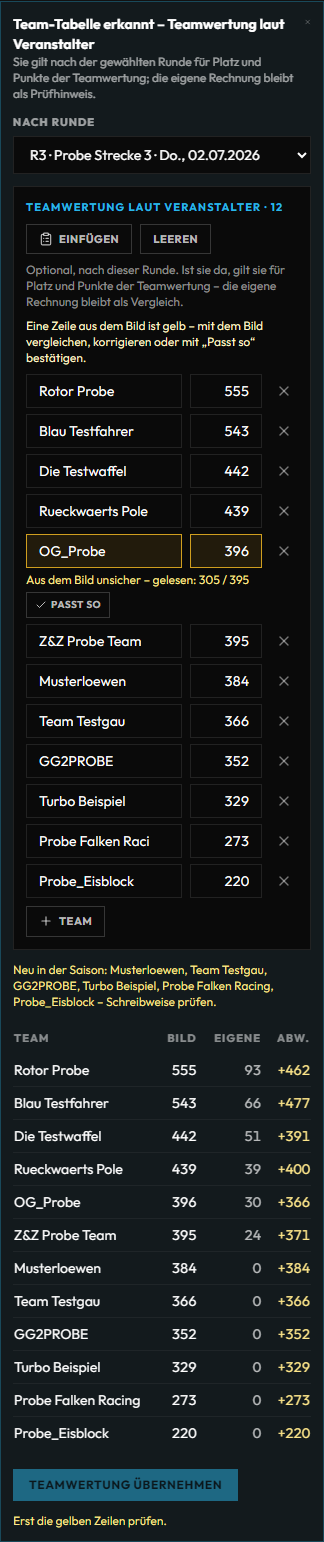
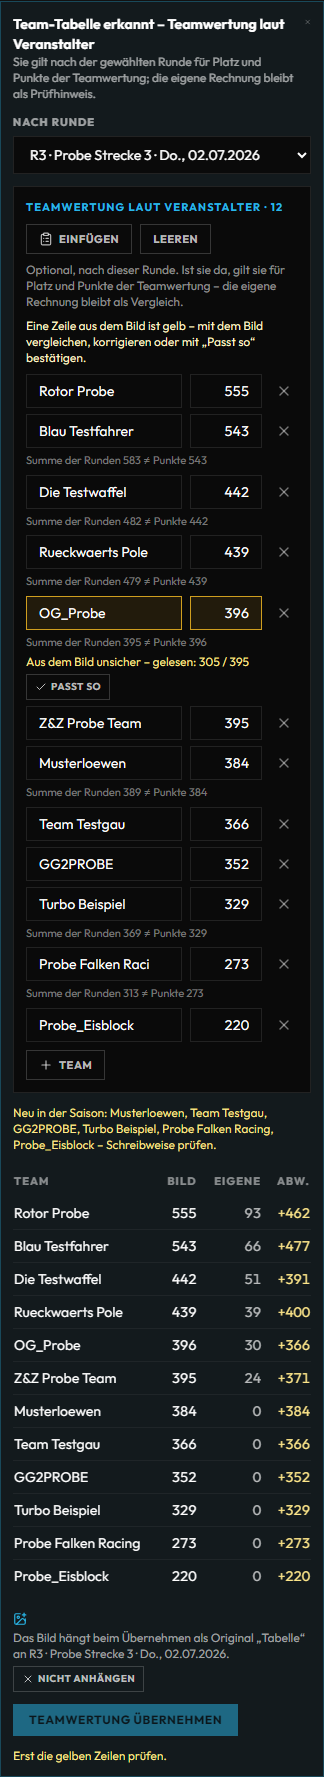
docs: Tabelle per Bild – Summenprobe je Tabellenart, Schriftbild-Probe und Original-Bild (#1999)

diff --git a/docs/entwicklung/serien-ergebnisse.md b/docs/entwicklung/serien-ergebnisse.md
@@ -505,9 +505,15 @@ gilt hier nicht. Web: `SeasonTableSection.jsx`, `OfficialTeamTotals.jsx` (`image
   gelesen) heißt nicht angetreten und ist sicher, sobald keine Lesung eine Zahl sieht. Widerspruch oder zu wenig
   Sicherheit: gelb (`uncertain` je Zeile, `read` das andere Gelesene).
 - **Gegenproben** (`_check`): `Dif. = Punkte - Punkte des Ersten` bestätigt beide (ein verlorenes Minus wird gesetzt)
-  oder macht beide gelb; `Summe der Runden = Punkte` bestätigt die Zeile, sonst werden ihre Zahlenzellen gelb und die
-  Zeile bekommt einen Hinweis (`notes`) - nie still falsch. Plätze laufen mit den Punkten; Platz 1 im Kasten ergibt sich
-  aus 2 … n.
+  oder macht beide gelb. Plätze laufen mit den Punkten; Platz 1 im Kasten ergibt sich aus 2 … n.
+- **Schriftbild** (`_glyph_check`): dieselbe Zahl sieht in derselben Tabelle gleich aus. Gleicht die Tinte einer Zelle
+  (freigestellt, auf feste Größe gebracht) einer Zelle mit anderem Wert (`GLYPH_CLOSE`), ist eine verlesen - etwa „23“,
+  die alle Lesungen als „25“ nahmen: beide gelb, mit dem anderen Wert als Lesung.
+- **Summe** (`check_sums`, in der Route nach dem Abgleich der Namen): `Summe der Runden = Punkte` bestätigt die Zeile.
+  Sonst ein Hinweis an der Summe (`notes`). Nur die Fahrertabelle (`table=drivers`) macht dann die Zahlenzellen gelb -
+  außer die Abweichung ist erklärt (`_sum_explainer` mit `season_table.explain_total`: Streichresultate nach den Regeln,
+  Aktivitätspunkte, Anpassungen des Fahrers). Die Teamtabelle (`table=teams`, auch erkannt an der Spalte „Team“)
+  rechnet „Punkte“ oft als aktuelle Besetzung (#1960): nur der Hinweis.
 - **Namen** (`match_names`): unscharf (`result_image_match.similarity`) gegen die Teilnehmer samt Aliase (Fahrer) bzw.
   die Teams der Saison (`known_teams`: eigene, Standard-Teams, Teams der Blätter und der Teamwertung).
 - **Teamwertung laut Veranstalter** (`routes/reference_season_table_routes.py`): `POST …/team-totals/preview`
@@ -515,5 +521,9 @@ gilt hier nicht. Web: `SeasonTableSection.jsx`, `OfficialTeamTotals.jsx` (`image
   neuen Werten (`official_points`, `computed_points`, `deviation`) und nennt neue Teams; `PUT …/team-totals`
   (`{round_id, totals, expected_version}`) schreibt `official_team_totals` ins Blatt (Entwurf daneben bekommt dieselben
   Werte), Revision `team_totals`, Protokoll `reference_result.team_totals`, bei veröffentlichtem Blatt neu rechnen.
+- **Original** (#1933): Lesen speichert nichts. Die Saisontabelle merkt sich die Datei und hängt sie nach dem
+  Übernehmen mit `kind=table`, `origin=reading` an (`…/rounds/<termin>/originals`): bei der Fahrertabelle an die letzte
+  Runde der Tabelle (`lastTableRound`, nur wenn etwas übernommen wurde), bei der Teamtabelle an die gewählte Runde, im
+  Ergebnisblatt über `OfficialTeamTotals` → `onImage` an den Termin des Blatts. „Nicht anhängen“ lässt es weg.
 - **Tests:** `backend/tests/season_table_image_fixture.py` zeichnet die Tabelle im PRL-Layout mit erfundenen Teams (12 ×
   17 Runden, eine Strafe); `test_result_image_table.py` prüft „stimmt oder gelb“ für jede Zelle.

diff --git a/docs/handbuch/inhalte.md b/docs/handbuch/inhalte.md
@@ -716,16 +716,23 @@ das Bild wird nicht gespeichert.
   Rundenspalten heißen „Runde 1“, „Runde 2“ … (Flaggen sind Bilder, keine Schrift) und werden über die Reihenfolge den
   Terminen zugeordnet – in der Vorschau korrigierbar. Namen werden mit den Teilnehmern der Saison abgeglichen.
 - **Gelb = unsicher:** Wo die Lesungen nicht übereinstimmen, steht die Zelle unter **Aus dem Bild unsicher** – mit dem,
-  was sonst gelesen wurde. Passen „Punkte“ und „Dif.“ nicht zusammen oder ergibt die Summe der Runden nicht die Punkte,
-  wird die ganze Zeile gelb (welche Zelle falsch ist, lässt sich nicht sagen). Falsches im Feld korrigieren und **Neu
-  einlesen** – sonst **Passt so** bzw. **Alle geprüft**. Übernommen wird erst danach.
+  was sonst gelesen wurde. Gelb wird auch, was genauso aussieht wie eine Zelle mit anderem Wert (dieselbe Zahl sieht in
+  einer Tabelle immer gleich aus), und „Punkte“ und „Dif.“, wenn sie nicht zusammenpassen. Ergibt die Summe der Runden
+  nicht die Punkte, wird die Zeile gelb – außer die Saison erklärt es (Streichresultate, Anpassungen,
+  Aktivitätspunkte); dann steht nur ein Hinweis da. Falsches im Feld korrigieren und **Neu einlesen** – sonst **Passt
+  so** bzw. **Alle geprüft**. Übernommen wird erst danach.
+- **Original-Bild:** Beim Übernehmen hängt das Bild als Original „Tabelle“ an der letzten Runde der Tabelle (siehe
+  Original-Bilder); **Nicht anhängen** lässt es weg.
 - **Team-Tabelle:** Heißt die Namensspalte „Team“, wird daraus die **Teamwertung laut Veranstalter**. Vorgewählt ist die
   letzte gewertete Runde, jede andere Runde mit Ergebnis geht auch. Die Liste zeigt Team und Punkte (gelbe Zeilen mit
   **Passt so** bestätigen), darunter der Vergleich **Laut Bild** gegen die **Eigene Rechnung** – sie bleibt als
-  Prüfhinweis. **Teamwertung übernehmen** schreibt sie ins Ergebnis der Runde (bei einem veröffentlichten Ergebnis wird
-  neu gerechnet; ein Entwurf daneben bekommt dieselben Werte).
+  Prüfhinweis. Dass die Summe der Runden nicht die Punkte ergibt, ist bei Teamtabellen normal (oft zählt die aktuelle
+  Besetzung): es steht nur als Hinweis an der Zeile. **Teamwertung übernehmen** schreibt sie ins Ergebnis der Runde (bei
+  einem veröffentlichten Ergebnis wird neu gerechnet; ein Entwurf daneben bekommt dieselben Werte) und hängt das Bild als
+  Original „Tabelle“ an diese Runde.
 - **Im Ergebnisblatt** einer Runde hat **Teamwertung laut Veranstalter** denselben Knopf **Bild auslesen**; gelbe
-  Zeilen halten dort das Übernehmen auf wie gelbe Zeilen aus einem Ergebnis-Bild.
+  Zeilen halten dort das Übernehmen auf wie gelbe Zeilen aus einem Ergebnis-Bild. Das Bild steht danach unter
+  **Original-Bilder** (Art „Tabelle“) und hängt beim Übernehmen am Termin.
 
 <table>
 <tr>
